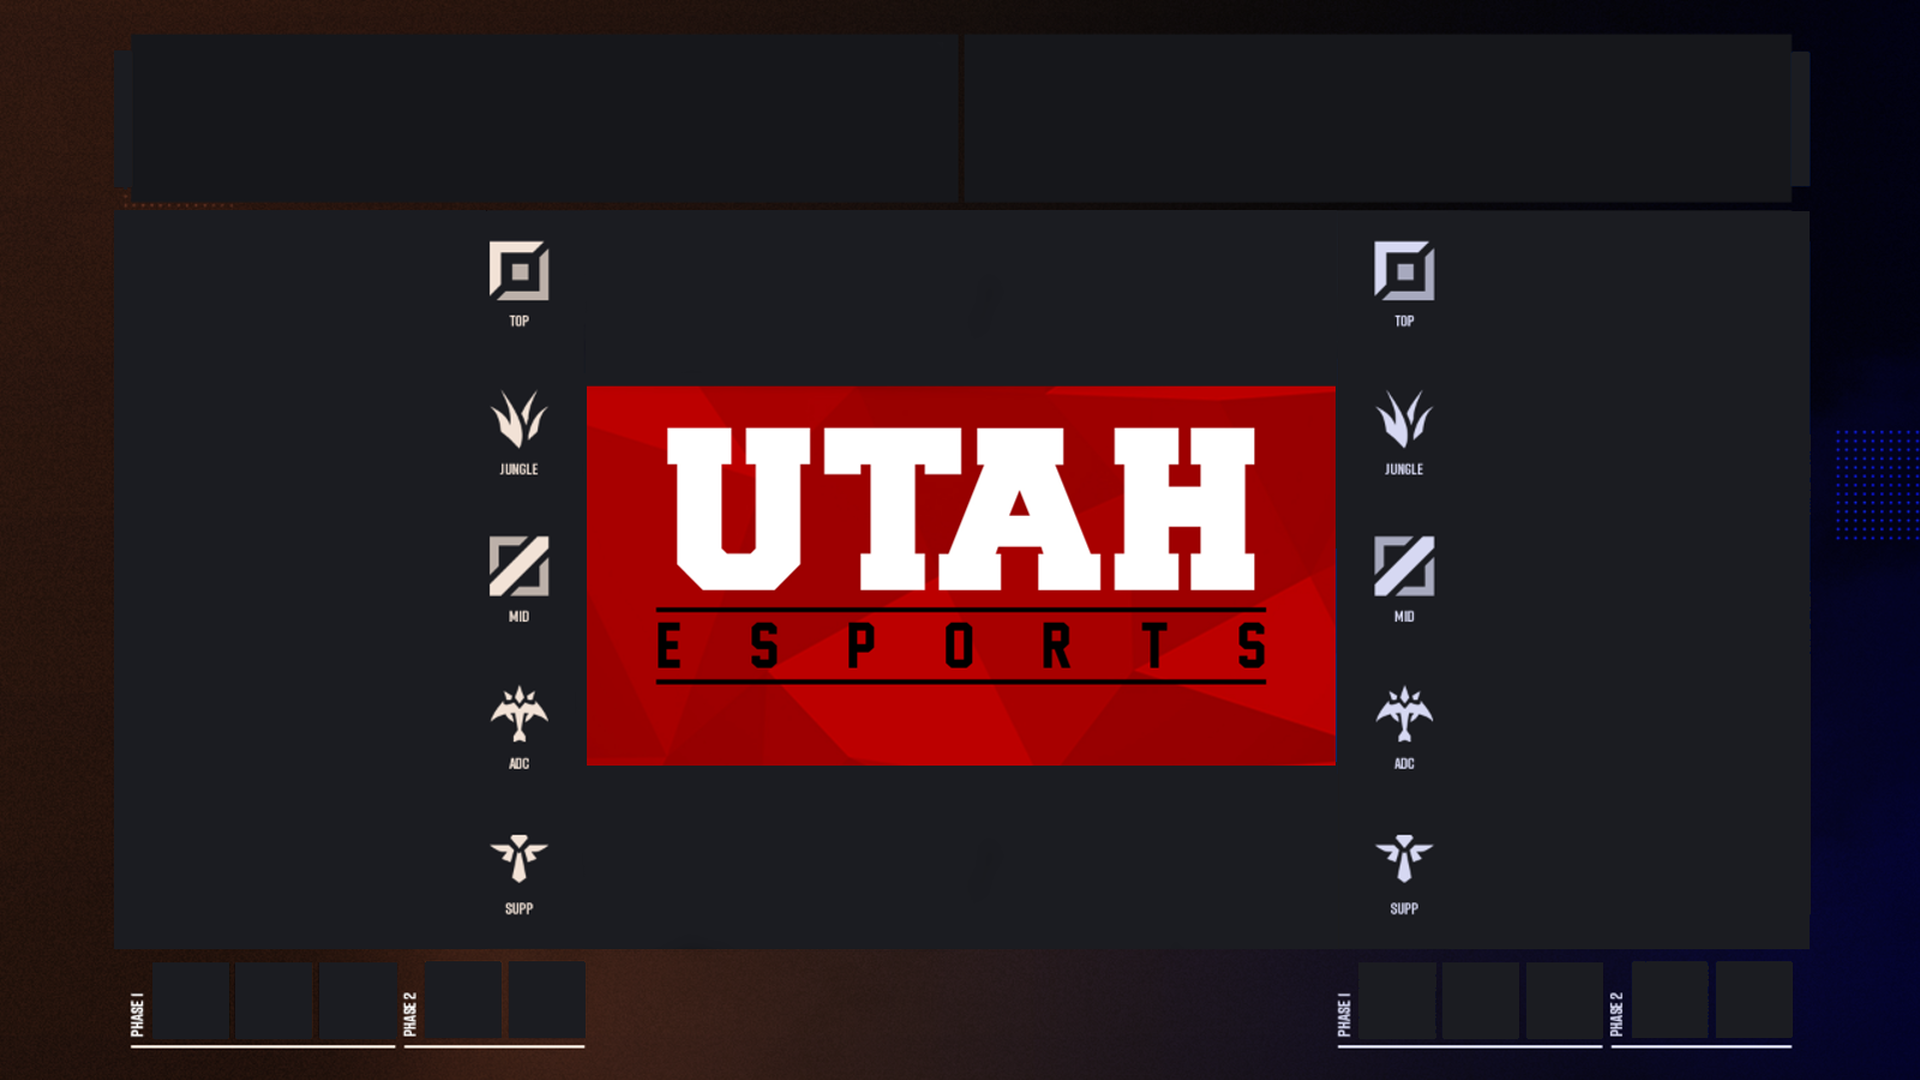
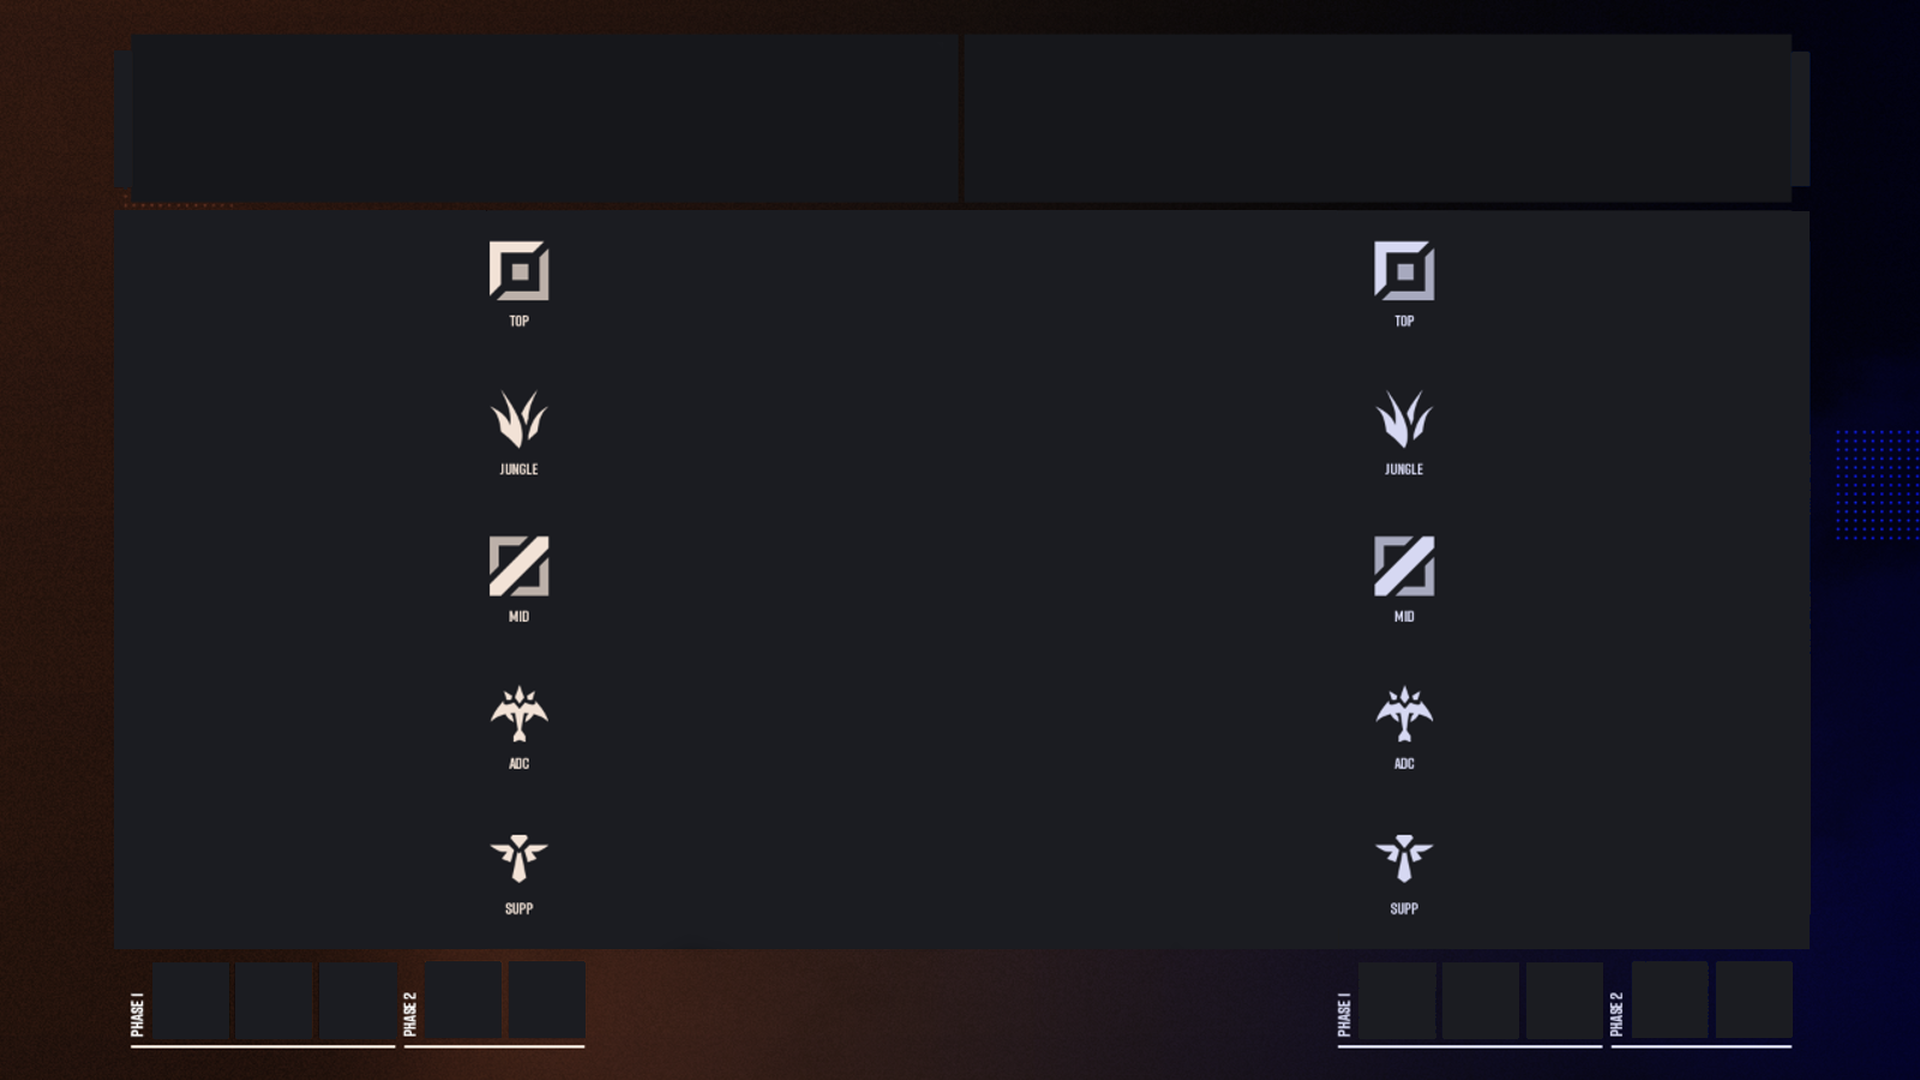
Swap images

Changed region(s): [[0.2812, 0.3361, 0.7188, 0.7333]]

diff --git a/champSelect.py b/champSelect.py
@@ -1,3 +1,4 @@
+import os
 import threading
 from PIL import Image, ImageTk, ImageEnhance
 import requests
@@ -9,9 +10,12 @@ import sys
 urllib3.disable_warnings(urllib3.exceptions.InsecureRequestWarning)
 
 connector = Connector()
-global phase, blueBans, bluePicks, redBans, redPicks, in_champ_select, closed, ready, bluePickCanvases, redPickCanvases, blueBanCanvases, redBanCanvases, notInChampSelectText, notConnectedText, reconnectButtonFlag, conThread, redPlayers, bluePlayers, redName, blueName
+global phase, blueBans, bluePicks, redBans, redPicks, in_champ_select, closed, ready, bluePickCanvases, redPickCanvases, blueBanCanvases, redBanCanvases, notInChampSelectText, notConnectedText, reconnectButtonFlag, conThread, redPlayers, bluePlayers, redName, blueName, imageI, imageList, imageCanvas
 ready = False
+imageCanvas = None
+imageList = os.listdir("images")
 closed = False
+imageI = 0
 reconnectButtonFlag = False
 reconnectButton = None
 phase = ''
@@ -443,6 +447,22 @@ def makeRedBanCanvases():
         redBansCanvases[i+3].place(x=1633+(84*i), y=964)
     return redBansCanvases
 
+# NOTE: must have a folder called images with all the images in it of size 750x380, also change line 464 if you want to change the time between images
+def drawImages():
+    global imageI, imageCanvas
+    if imageI == len(imageList):
+        imageI = 0
+    if imageCanvas != None:
+        imageCanvas.destroy()
+    print("drawing:" + imageList[imageI])
+    imageCanvas = tk.Canvas(root, width=750, height=380, highlightbackground='#000000', highlightthickness=0)
+    imageCanvas.place(x=960, y=540, anchor=tk.CENTER)
+    image = tk.PhotoImage(file="images/" + imageList[imageI])
+    imageCanvas.create_image(0, 0, anchor=tk.NW, image=image)
+    imageCanvas.image = image
+    imageI += 1
+    root.after(10000, drawImages)
+
 
 conThread = threading.Thread(target=connector.start)
 conThread.start()
@@ -454,6 +474,8 @@ canvas = tk.Canvas(root, width=1920, height=1080, highlightbackground='#000000',
 canvas.pack()
 background = tk.PhotoImage(file="background.png")
 canvas.create_image(0, 0, anchor=tk.NW, image=background)
+drawImages()
+
 bluePickCanvases = makeBluePickCanvases()
 redPickCanvases = makeRedPickCanvases()
 blueBanCanvases = makeBlueBanCanvases()
